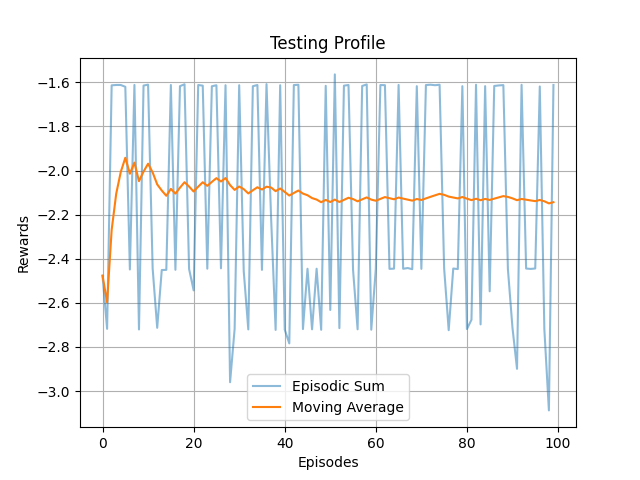
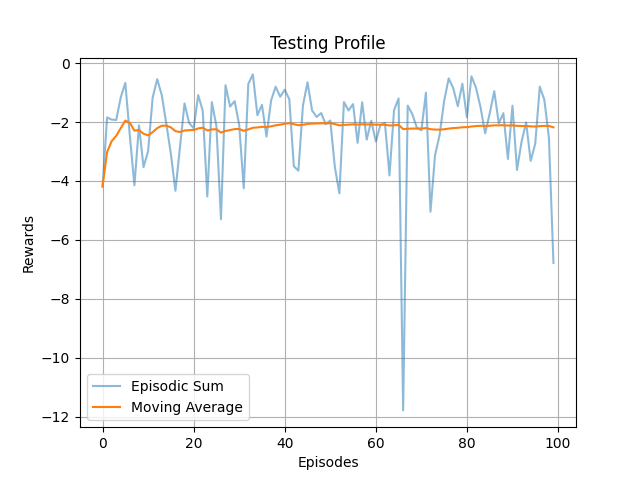
Tested: A Pick and Place routine
Gripper Open when held object is troublesome

diff --git a/rai_gym/demo_env.py b/rai_gym/demo_env.py
@@ -37,14 +37,14 @@ class Environment(gym.Env):
         self.obj1.setColor([1, 0, 0])
         self.obj1.setQuaternion(np.array([np.pi, 0, 0, 0]))
         self.obj1.setMass(1.0)
-        self.obj1.setContact(-1)
+        self.obj1.setContact(-2)
 
         self.obj2 = self.K.addFrame("Obj2")
         self.obj2.setShape(ry.ST.cylinder, [.05, .02])
         self.obj2.setColor([0, 0, 1])
         self.obj2.setQuaternion(np.array([np.pi, 0, 0, 0]))
         self.obj2.setMass(1.0)
-        self.obj2.setContact(-1)
+        self.obj2.setContact(-2)
 
         self.K.getFrameState()
         self.K.addFile(os.path.abspath('robot_scene/robot_scene.g'))
@@ -112,7 +112,7 @@ class Environment(gym.Env):
         F = self.K.feature(ry.FS.position, [self.frame])
         y1, J1 = F.eval(self.K)
 
-        for _ in range(self.IK_steps):
+        while not np.allclose(action, y1):
             q = np.array(self.K.getJointState())
             F = self.K.feature(ry.FS.position, [self.frame])
             y1, J1 = F.eval(self.K)
@@ -126,6 +126,7 @@ class Environment(gym.Env):
 
             q = _update_q(q, J, Y)
             self.S.step(q, self.tau, ry.ControlMode.position)
+            sleep(0.05)
 
     def MoveP2P(self, goal: np.ndarray, correct_pos=False) -> np.float:
         # Read Gripper Position
@@ -153,24 +154,25 @@ class Environment(gym.Env):
         return error
 
     def Grasp(self, state: string) -> None:
+        q = self.S.get_q()
 
         # Gripping Close
         if state == 'close':
-            q = self.S.get_q()
             self.S.closeGripper("gripper")
-            for _ in range(100):
-                self.S.step(q, self.tau, ry.ControlMode.position)
 
         # Gripping Close
         elif state == 'open':
-            q = self.S.get_q()
             self.S.openGripper("gripper")
-            for _ in range(100):
-                self.S.step(q, self.tau, ry.ControlMode.position)
 
         else:
             raise ValueError(
                 f'This grasp argument: {state} is not implemented')
+
+        for _ in range(1000):
+            self.S.step(q, self.tau, ry.ControlMode.position)
+
+    def Wait(self, seconds: float):
+        sleep(seconds * 1e-3)
 
     def reset(self) -> None:
         # Reset the state of the environment to an initial state

diff --git a/main.py b/main.py
@@ -1,0 +1,45 @@
+import numpy as np
+import os
+
+from rai_gym.demo_env import Environment
+from rl_agents.DDPG import Agent
+
+if __name__ == '__main__':
+    # Init. agent for reaching tasks
+    agent_path = os.path.abspath("trained_agents")
+
+    low = np.array([-0.15, -0.15, 0.2])
+    high = np.array([0.15, 0.15, 0.6])
+
+    reach_agent = Agent(input_dims=6, n_actions=3, max_action=high,
+                        min_action=low, datapath=None, n_games=1000)
+    reach_agent.actor.load_model(agent_path + '/')
+
+    # Init. Environments
+    env = Environment(reach_skill=reach_agent)
+    env.reset()
+
+    # Stack of AI stacks
+    env.Grasp(state='open')
+    env.Wait(seconds=1)
+
+    target = env.obj1.getPosition()
+    env.MoveP2P(target + np.array([0.0, 0.0, .10]))
+    env.Wait(seconds=1)
+
+    env.MoveP2P(target)
+    env.Wait(seconds=1)
+
+    env.Grasp(state='close')
+    env.Wait(seconds=1)
+    env.MoveP2P(target + np.array([0.0, 0.0, .10]))
+
+    bin_location = np.array([0, -0.12, 1.0])
+    env.MoveP2P(bin_location + np.array([0.0, 0.0, .10]))
+    env.Wait(seconds=1)
+
+    env.MoveP2P(bin_location)
+    env.Wait(seconds=1)
+
+    env.Grasp(state='open')
+    env.Wait(seconds=5)
